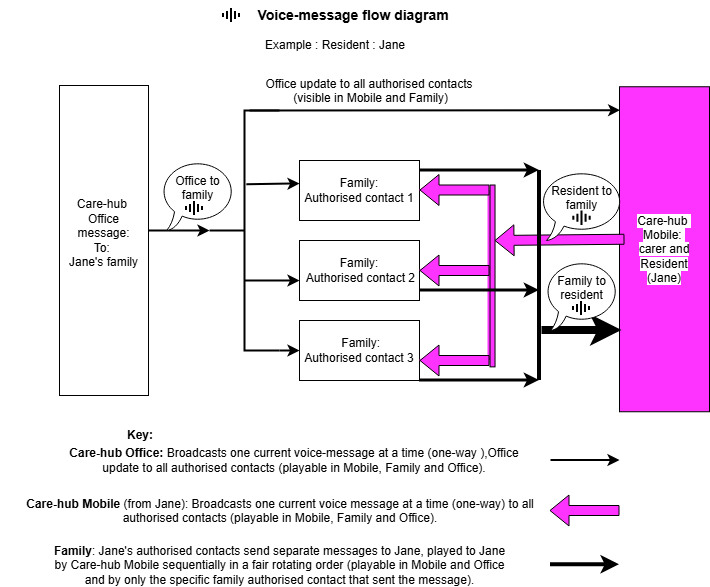
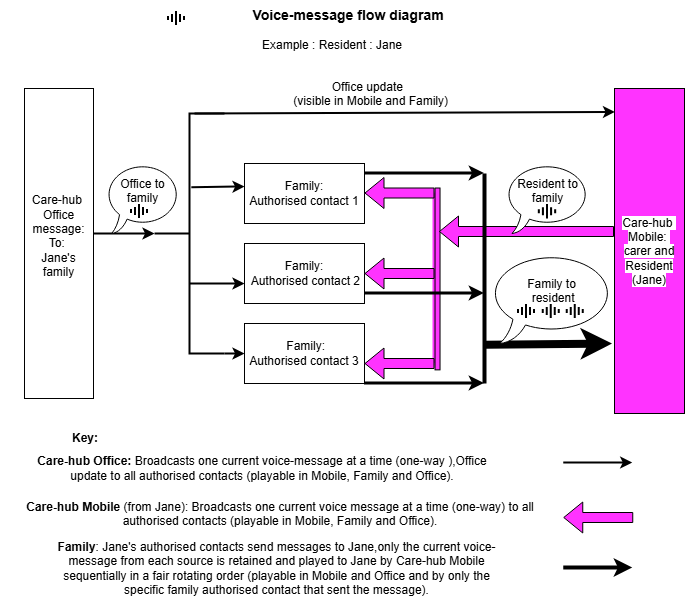
diagram_update_and_example_wording_alignment

diff --git a/docs/office/05_care_home_guide.md b/docs/office/05_care_home_guide.md
@@ -40,7 +40,7 @@ Example: Jane
 
 This diagram shows how voice messages and updates are organised for a single resident, using Jane as the example. Each authorised contact has their own contact channel for Family/Friend -> Resident messages. Care Hub – Mobile plays these family messages in a fair rotating order, with unplayed messages first.
 
-Resident -> Family is one shared current message to all authorised contacts. The care home can also send a one-way Office update to all authorised contacts. In each channel/direction, only one current message is kept at a time, and a new message replaces the previous one.
+Resident -> Family is one shared current message to all authorised contacts. The care home can also send a one-way Office update to all authorised contacts. Each authorised contact channel retains the current message for that channel. A new message replaces only the previous message in that same channel/direction.
 
 ## Authorised contact channel structure
 

diff --git a/docs/office/08_care_hub_access_summary.md b/docs/office/08_care_hub_access_summary.md
@@ -10,7 +10,7 @@ Example: Jane
 
 This diagram shows how voice messages and updates are organised for a single resident, using Jane as the example. Each authorised contact has their own contact channel for Family/Friend -> Resident messages. Care Hub – Mobile plays these family messages in a fair rotating order, with unplayed messages first.
 
-Resident -> Family is one shared current message to all authorised contacts. The care home can also send a one-way Office update to all authorised contacts. In each channel/direction, only one current message is kept at a time, and a new message replaces the previous one.
+Resident -> Family is one shared current message to all authorised contacts. The care home can also send a one-way Office update to all authorised contacts. Each authorised contact channel retains the current message for that channel. A new message replaces only the previous message in that same channel/direction.
 
 ## App separation summary
 

diff --git a/docs/office/11_office_training_instructions.md b/docs/office/11_office_training_instructions.md
@@ -8,7 +8,7 @@ Example: Jane
 
 This diagram shows how voice messages and updates are organised for a single resident, using Jane as the example. Each authorised contact has their own contact channel for Family/Friend -> Resident messages. Care Hub – Mobile plays these family messages in a fair rotating order, with unplayed messages first.
 
-Resident -> Family is one shared current message to all authorised contacts. The care home can also send a one-way Office update to all authorised contacts. In each channel/direction, only one current message is kept at a time, and a new message replaces the previous one.
+Resident -> Family is one shared current message to all authorised contacts. The care home can also send a one-way Office update to all authorised contacts. Each authorised contact channel retains the current message for that channel. A new message replaces only the previous message in that same channel/direction.
 
 ## Who this is for
 

diff --git a/docs/public/02_how_it_works.md b/docs/public/02_how_it_works.md
@@ -8,7 +8,7 @@ Example: Jane
 
 This diagram shows how voice messages and updates are organised for a single resident, using Jane as the example. Each authorised contact has their own contact channel for Family/Friend -> Resident messages. Care Hub – Mobile plays these family messages in a fair rotating order, with unplayed messages first.
 
-Resident -> Family is one shared current message to all authorised contacts. The care home can also send a one-way Office update to all authorised contacts. In each channel/direction, only one current message is kept at a time, and a new message replaces the previous one.
+Resident -> Family is one shared current message to all authorised contacts. The care home can also send a one-way Office update to all authorised contacts. Each authorised contact channel retains the current message for that channel. A new message replaces only the previous message in that same channel/direction.
 
 ## Purpose
 

diff --git a/docs/public/03_service_overview.md b/docs/public/03_service_overview.md
@@ -8,7 +8,7 @@ Example: Jane
 
 This diagram shows how voice messages and updates are organised for a single resident, using Jane as the example. Each authorised contact has their own contact channel for Family/Friend -> Resident messages. Care Hub – Mobile plays these family messages in a fair rotating order, with unplayed messages first.
 
-Resident -> Family is one shared current message to all authorised contacts. The care home can also send a one-way Office update to all authorised contacts. In each channel/direction, only one current message is kept at a time, and a new message replaces the previous one.
+Resident -> Family is one shared current message to all authorised contacts. The care home can also send a one-way Office update to all authorised contacts. Each authorised contact channel retains the current message for that channel. A new message replaces only the previous message in that same channel/direction.
 
 ## Purpose
 

diff --git a/docs/public/06_family_guide.md b/docs/public/06_family_guide.md
@@ -8,7 +8,7 @@ Example: Jane
 
 This diagram shows how voice messages and updates are organised for a single resident, using Jane as the example. Each authorised contact has their own contact channel for Family/Friend -> Resident messages. Care Hub – Mobile plays these family messages in a fair rotating order, with unplayed messages first.
 
-Resident -> Family is one shared current message to all authorised contacts. The care home can also send a one-way Office update to all authorised contacts. In each channel/direction, only one current message is kept at a time, and a new message replaces the previous one.
+Resident -> Family is one shared current message to all authorised contacts. The care home can also send a one-way Office update to all authorised contacts. Each authorised contact channel retains the current message for that channel. A new message replaces only the previous message in that same channel/direction.
 
 ## Purpose
 

diff --git a/docs/public/10_faq.md b/docs/public/10_faq.md
@@ -8,7 +8,7 @@ Example: Jane
 
 This diagram shows how voice messages and updates are organised for a single resident, using Jane as the example. Each authorised contact has their own contact channel for Family/Friend -> Resident messages. Care Hub – Mobile plays these family messages in a fair rotating order, with unplayed messages first.
 
-Resident -> Family is one shared current message to all authorised contacts. The care home can also send a one-way Office update to all authorised contacts. In each channel/direction, only one current message is kept at a time, and a new message replaces the previous one.
+Resident -> Family is one shared current message to all authorised contacts. The care home can also send a one-way Office update to all authorised contacts. Each authorised contact channel retains the current message for that channel. A new message replaces only the previous message in that same channel/direction.
 
 ## What is voice-message.com for?
 

diff --git a/docs/public/11_family_qa.md b/docs/public/11_family_qa.md
@@ -8,7 +8,7 @@ Example: Jane
 
 This diagram shows how voice messages and updates are organised for a single resident, using Jane as the example. Each authorised contact has their own contact channel for Family/Friend -> Resident messages. Care Hub – Mobile plays these family messages in a fair rotating order, with unplayed messages first.
 
-Resident -> Family is one shared current message to all authorised contacts. The care home can also send a one-way Office update to all authorised contacts. In each channel/direction, only one current message is kept at a time, and a new message replaces the previous one.
+Resident -> Family is one shared current message to all authorised contacts. The care home can also send a one-way Office update to all authorised contacts. Each authorised contact channel retains the current message for that channel. A new message replaces only the previous message in that same channel/direction.
 
 Q: Is this a live messaging service?  
 A: No. It is not live. Messages are played when staff are available.

diff --git a/docs/public/15_mobile_training_instructions.md b/docs/public/15_mobile_training_instructions.md
@@ -8,7 +8,7 @@ Example: Jane
 
 This diagram shows how voice messages and updates are organised for a single resident, using Jane as the example. Each authorised contact has their own contact channel for Family/Friend -> Resident messages. Care Hub – Mobile plays these family messages in a fair rotating order, with unplayed messages first.
 
-Resident -> Family is one shared current message to all authorised contacts. The care home can also send a one-way Office update to all authorised contacts. In each channel/direction, only one current message is kept at a time, and a new message replaces the previous one.
+Resident -> Family is one shared current message to all authorised contacts. The care home can also send a one-way Office update to all authorised contacts. Each authorised contact channel retains the current message for that channel. A new message replaces only the previous message in that same channel/direction.
 
 ## Who this is for
 